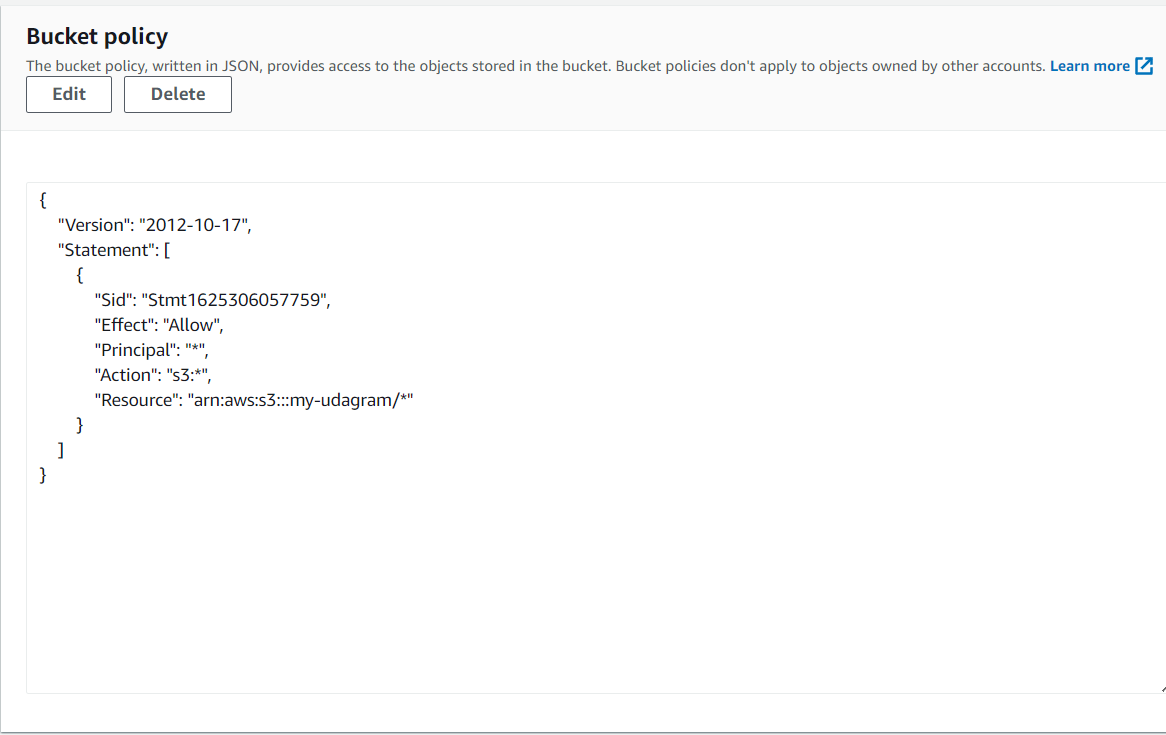
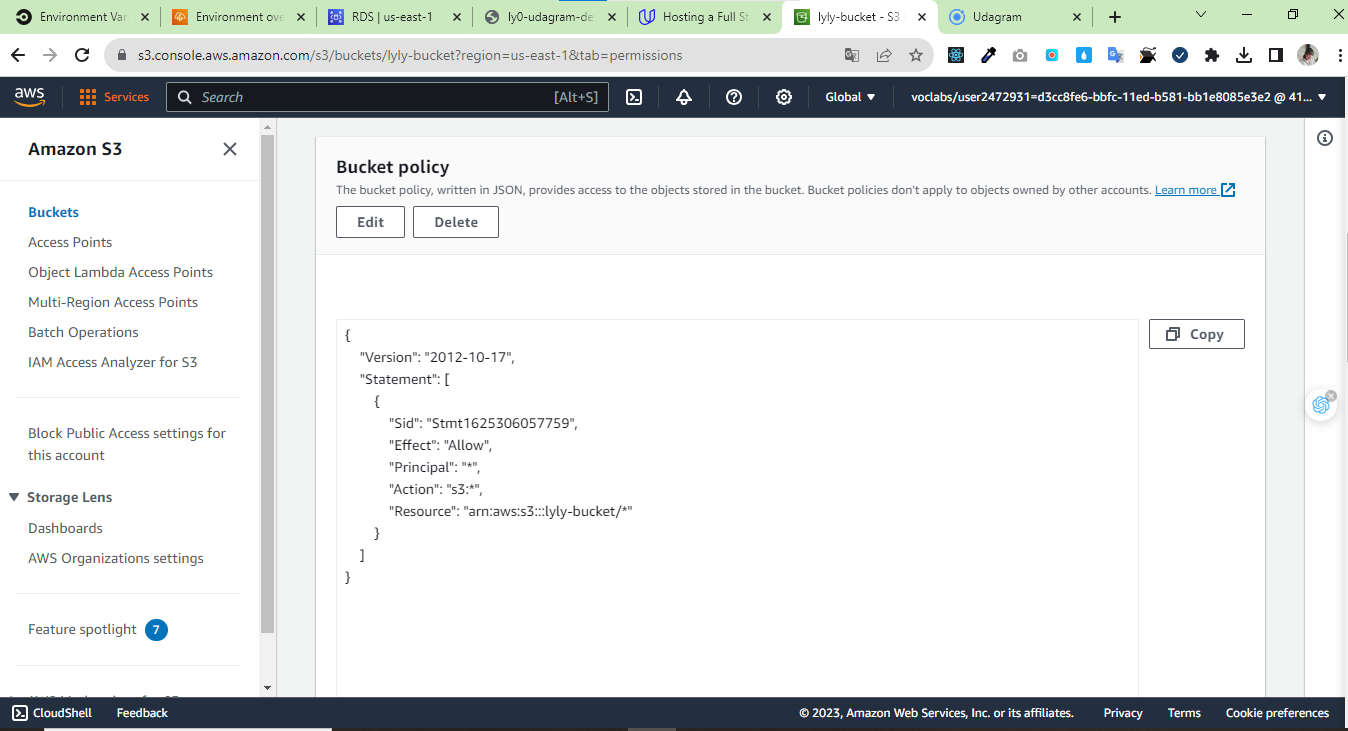
done task

diff --git a/README.md b/README.md
@@ -10,9 +10,9 @@ The main feature of this project is:
 
 ## Project Link
 
-Frontend: http://my-udagram.s3-website-us-east-1.amazonaws.com/
+Frontend: http://lyly-bucket.s3-website-us-east-1.amazonaws.com/
 
-Backend: http://haro-dagram-api-dev.us-east-1.elasticbeanstalk.com/
+Backend: http://http://ly0-udagram-dev.us-east-1.elasticbeanstalk.com/
 
 ## Project Setup
 
@@ -27,11 +27,11 @@ export POSTGRES_PASSWORD=postgres     // Postgres password
 export POSTGRES_HOST=''               // Postgres Host
 export POSTGRES_DB=postgres           // Database name
 export AWS_PROFILE=default            // AWS Profile
-export AWS_BUCKET=my-udagram          // S3 bucket
+export AWS_BUCKET=lyly-bucket         // S3 bucket
 export AWS_DEFAULT_REGION=us-east-1   // AWS default region
 export AWS_REGION=us-east-1           // AWS region
 export AWS_PROFILE=default            // AWS profile
-export JWT_SECRET=mysecretstring      // JWT secret key
+export JWT_SECRET="YourSecretString"  // JWT secret key
 export PORT=5432                      // Posgres Port
 export AWS_ACCESS_KEY_ID=             // AWS Acess Key ID
 export AWS_SECRET_ACCESS_KEY=         // AWS Secret Access Key
